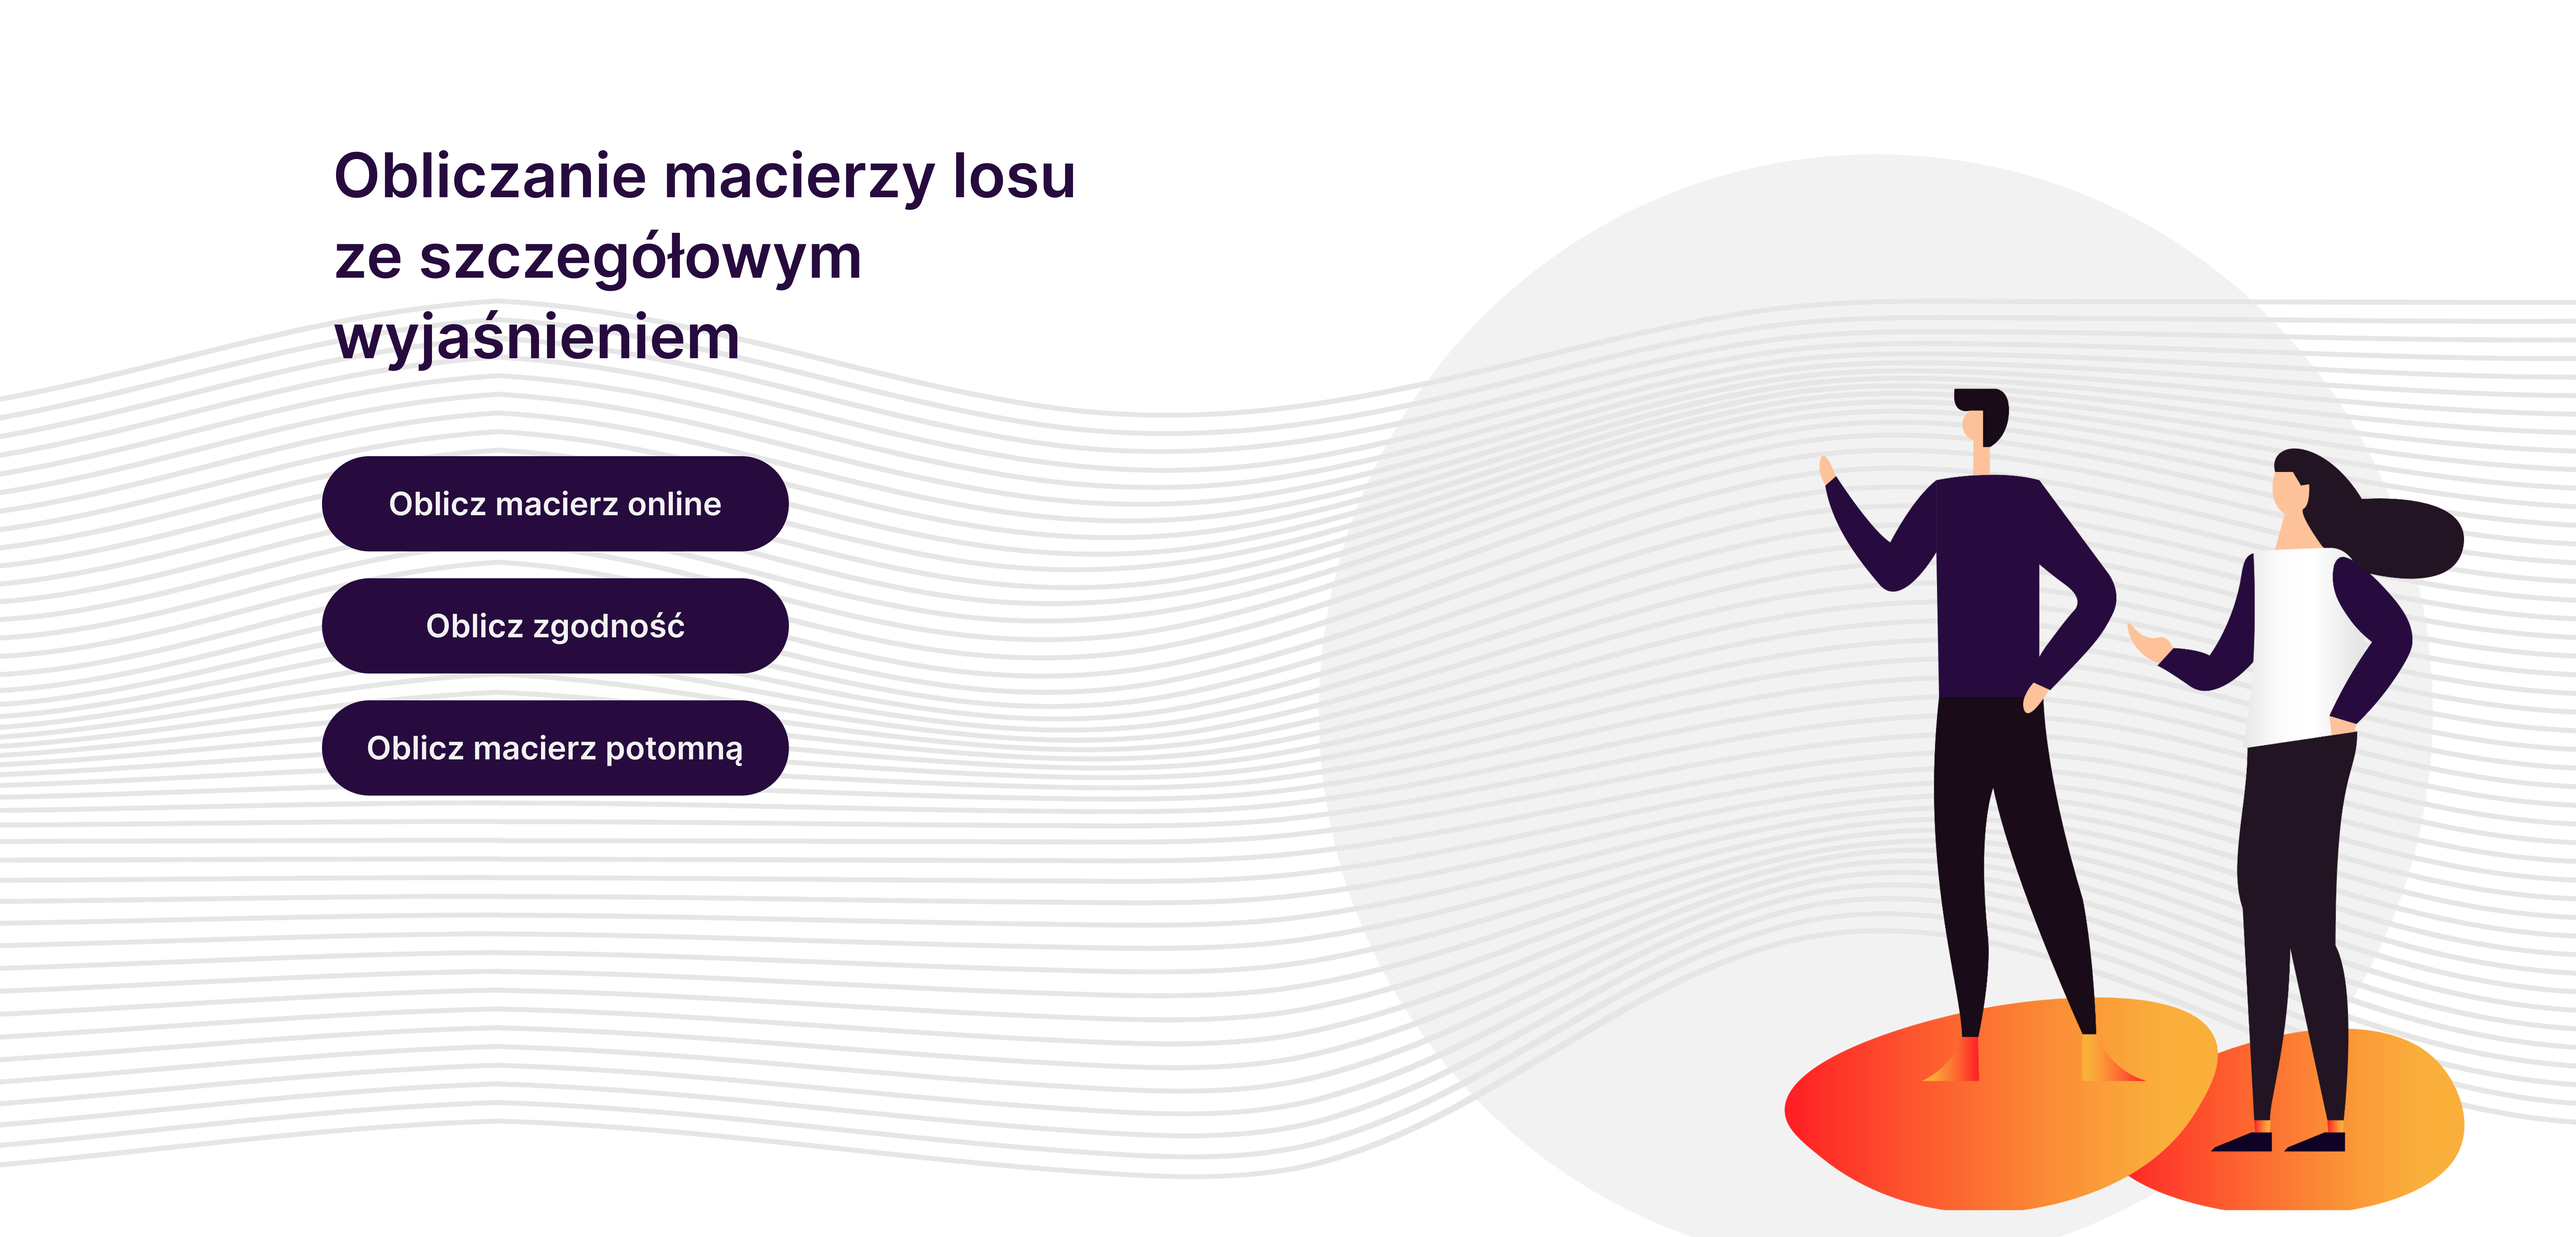
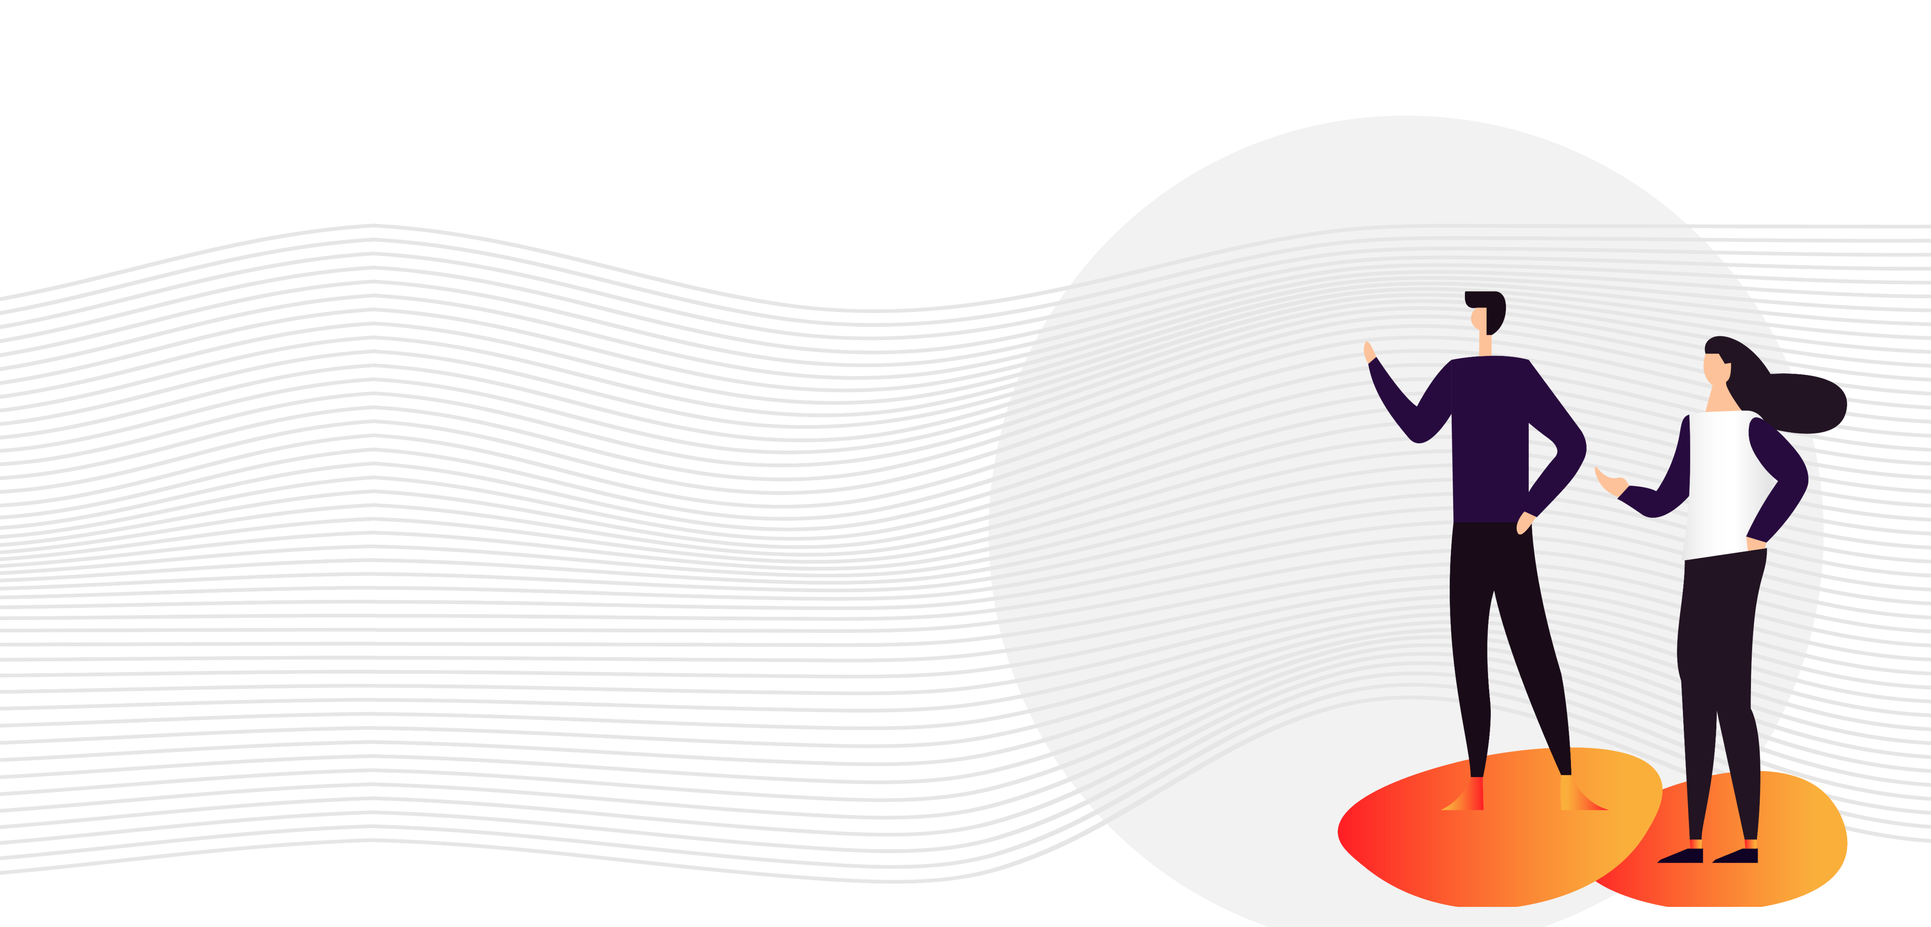
feat: added top block

Changed region(s): [[0.125, 0.342, 0.3125, 0.6529], [0.125, 0.1866, 0.3438, 0.3109], [0.125, 0.1244, 0.4375, 0.1555]]

diff --git a/src/app/Home/Main/index.tsx b/src/app/Home/Main/index.tsx
@@ -1,21 +1,15 @@
 'use client';
-import { DefaultButton } from '@/app/components/Buttons/DefaultButton';
-import Link from 'next/link';
 import { FC } from 'react';
 import { FormattedMessage } from 'react-intl';
+import Link from 'next/link';
+
+import { DefaultButton } from '@/app/components/Buttons/DefaultButton';
 import { buttonsData } from './buttonsData';
-import Image from 'next/image';
-import Back from '../../../../public/images/background.png';
 
 export const TopSection: FC = () => {
   return (
     <>
-      <section className="relative flex max-h-[800px] flex-col justify-between lg:h-[90vh] xl:min-h-[800px]">
-        <Image
-          src={Back}
-          alt="bg image"
-          className="absolute top-8 -z-10 h-[40%] sm:h-[60%] md:top-0 md:h-full"
-        />
+      <section className="bg-home-people flex w-full bg-contain bg-no-repeat md:bg-cover md:bg-center xl:min-h-[800px]">
         <div className="container flex flex-col items-center pt-7 md:items-start lg:pt-24">
           <h1 className="mb-44 max-w-[80%] text-center text-purple md:mb-14 md:max-w-xl md:text-left">
             <FormattedMessage id="home.calculation" />

diff --git a/tailwind.config.ts b/tailwind.config.ts
@@ -12,7 +12,7 @@ const config: Config = {
       backgroundImage: {
         'gradient-radial': 'radial-gradient(var(--tw-gradient-stops))',
         'gradient-conic': 'conic-gradient(from 180deg at 50% 50%, var(--tw-gradient-stops))',
-        'home-back': "url('/public/images/background.png')",
+        'home-people': 'url(/images/background-xl.png)',
       },
       maxWidth: {
         headerWidth: '1700px',
@@ -25,7 +25,10 @@ const config: Config = {
       },
       container: {
         center: true,
-        padding: '1rem',
+        padding: {
+          DEFAULT: '2.5rem',
+          sm: '1rem',
+        },
       },
       screens: {
         '2xl': '1440px',
